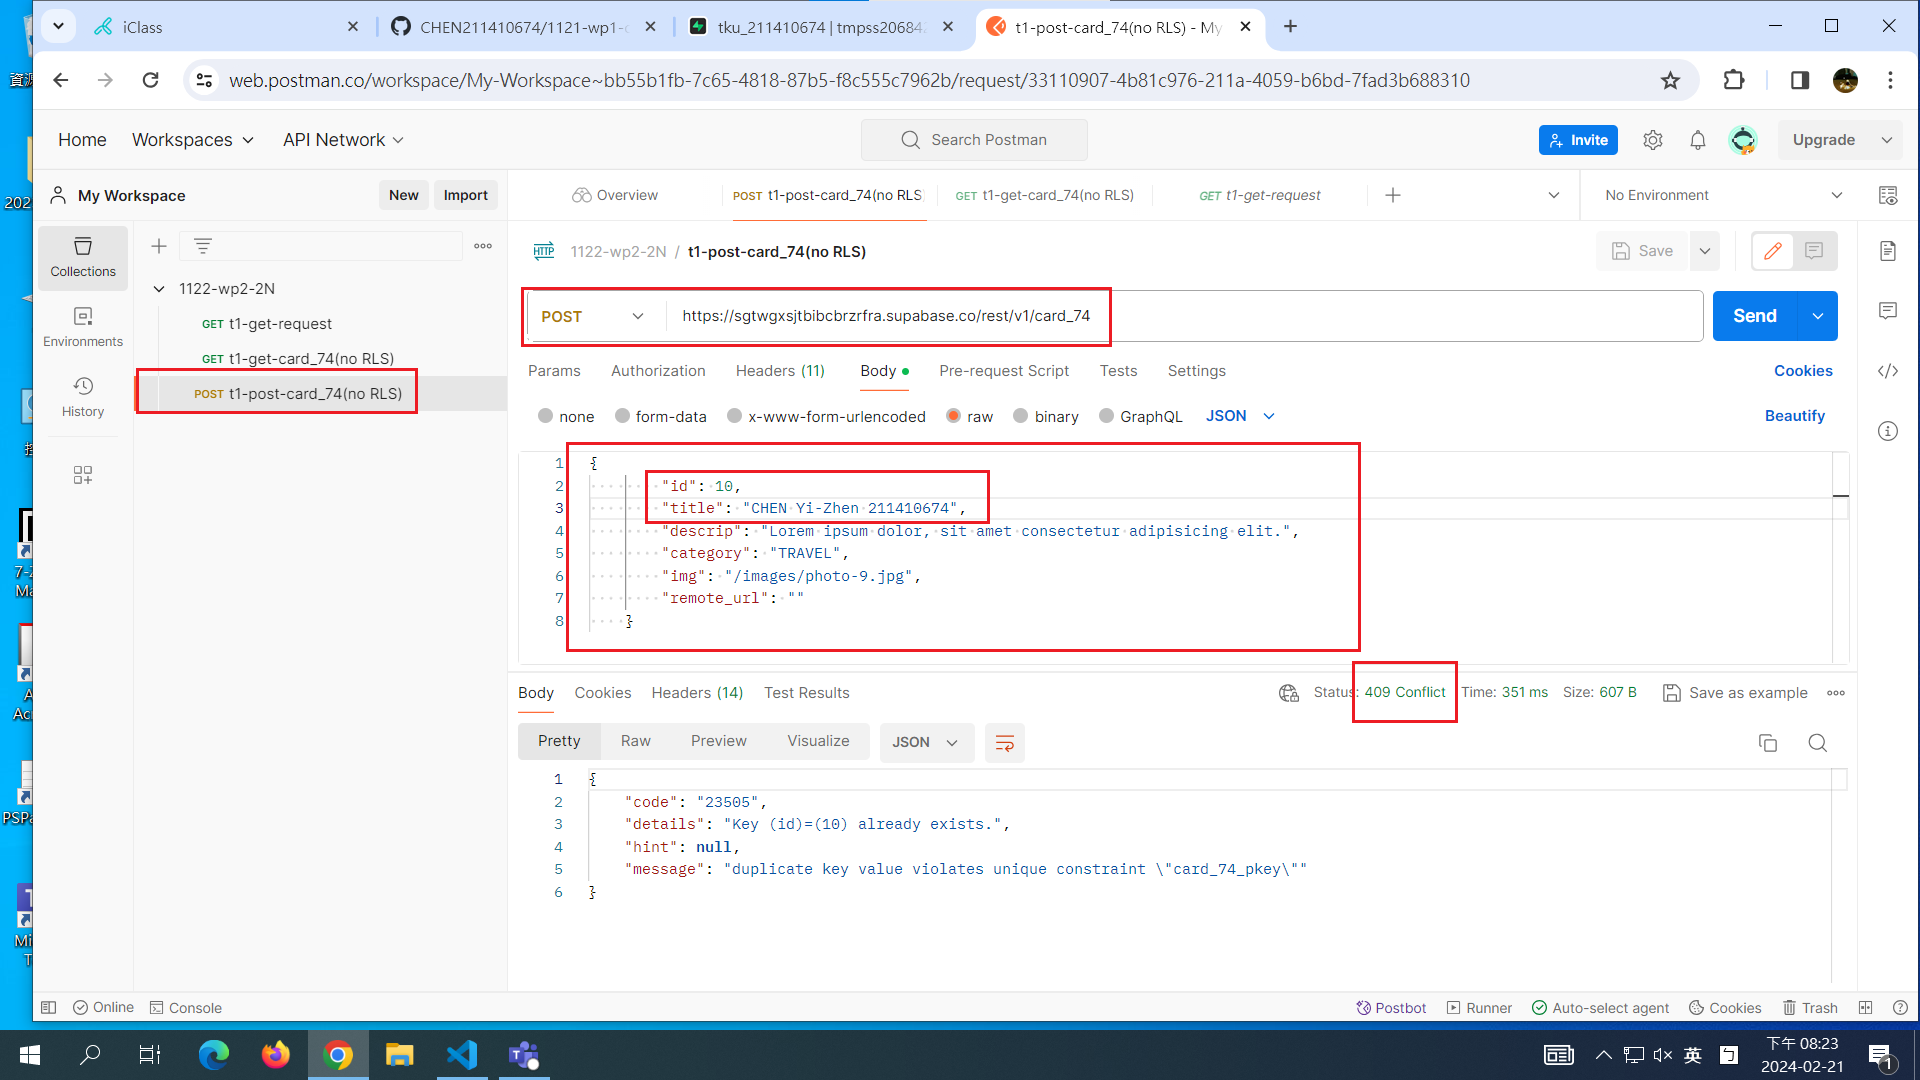
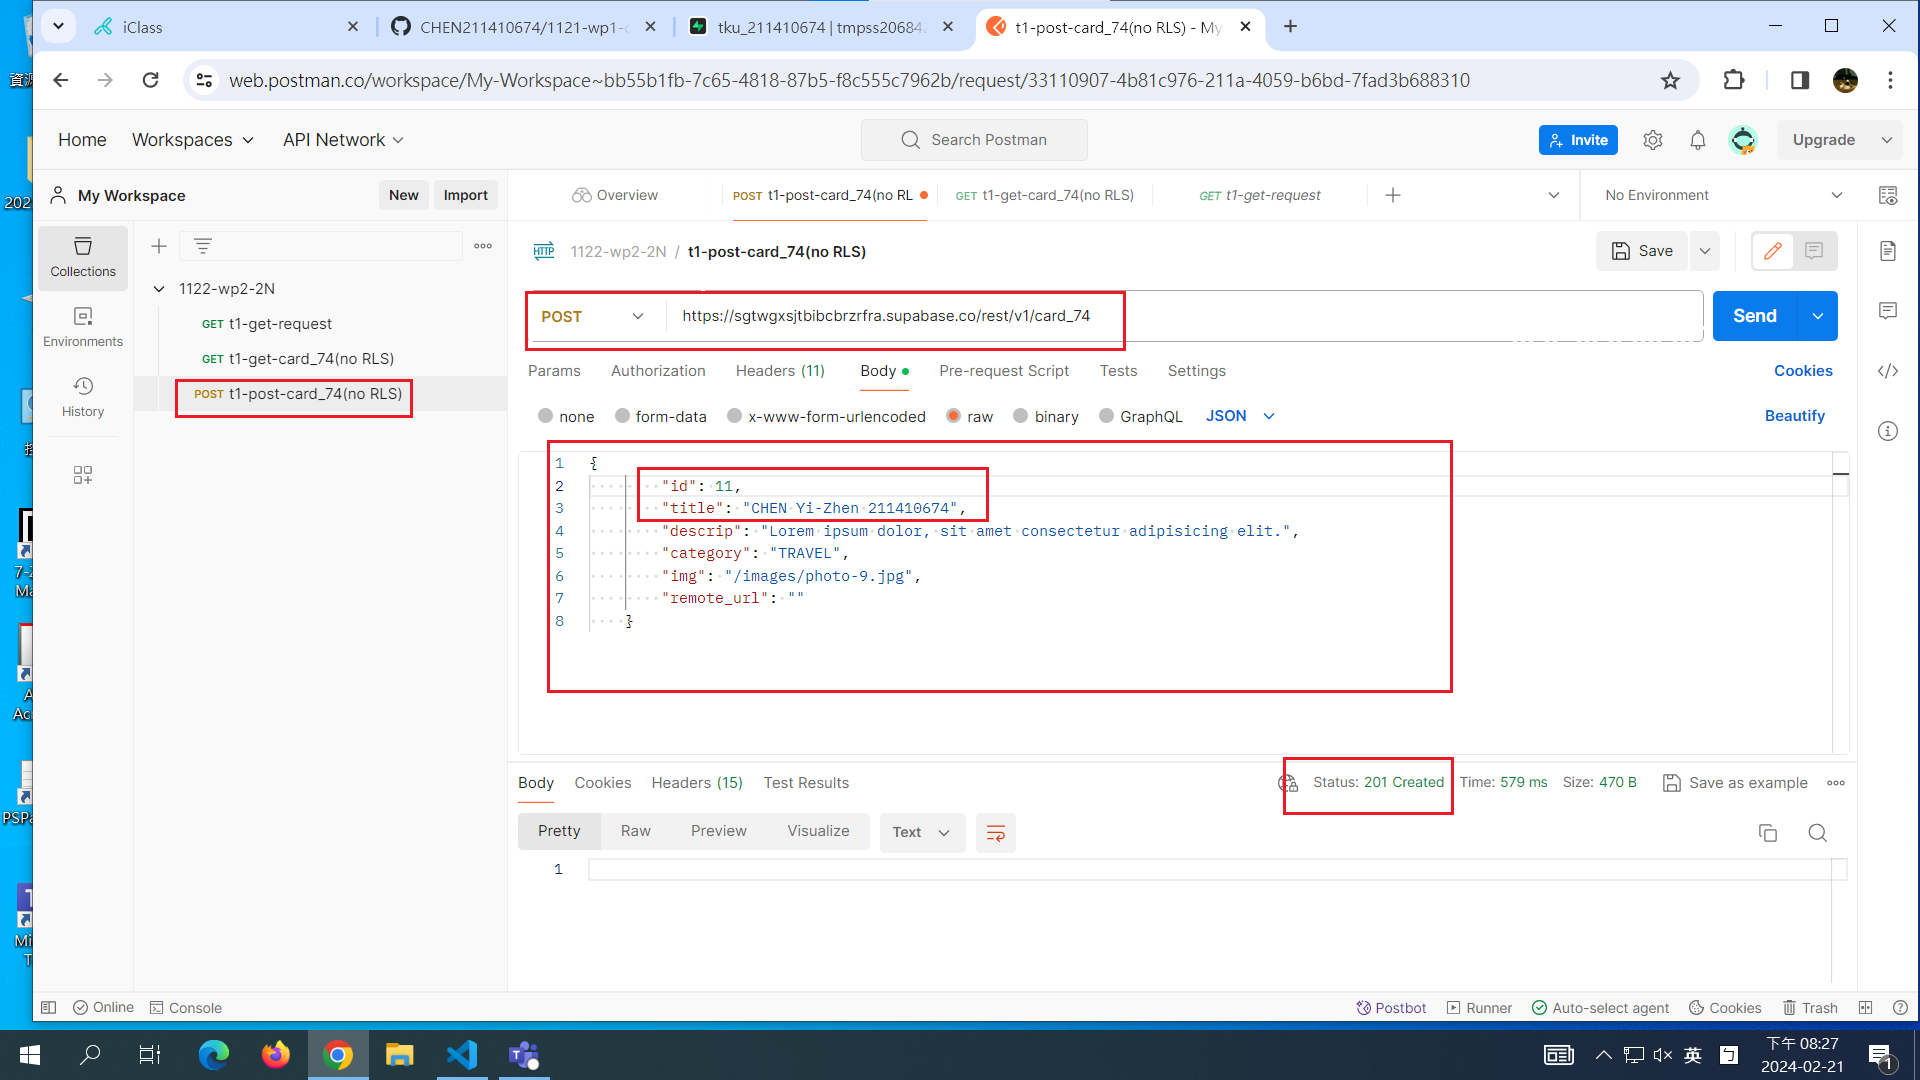
W1-P3: Create a card into card_xx table in Supabase

diff --git a/demo/md/w01_crue_74/w01_74.md b/demo/md/w01_crue_74/w01_74.md
@@ -21,3 +21,7 @@ d408bf1 Chen211410674   Wed Feb 21 19:52:41 2024 +0800  W1-P2: Read card_xx tabl
 ![](w1-p3-1.png)
 
 ![](w1-p3-2.png)
+
+```
+364f133 Chen211410674   Wed Feb 21 20:25:47 2024 +0800  W1-P3: Create a card into card_xx table in Supabase
+```
